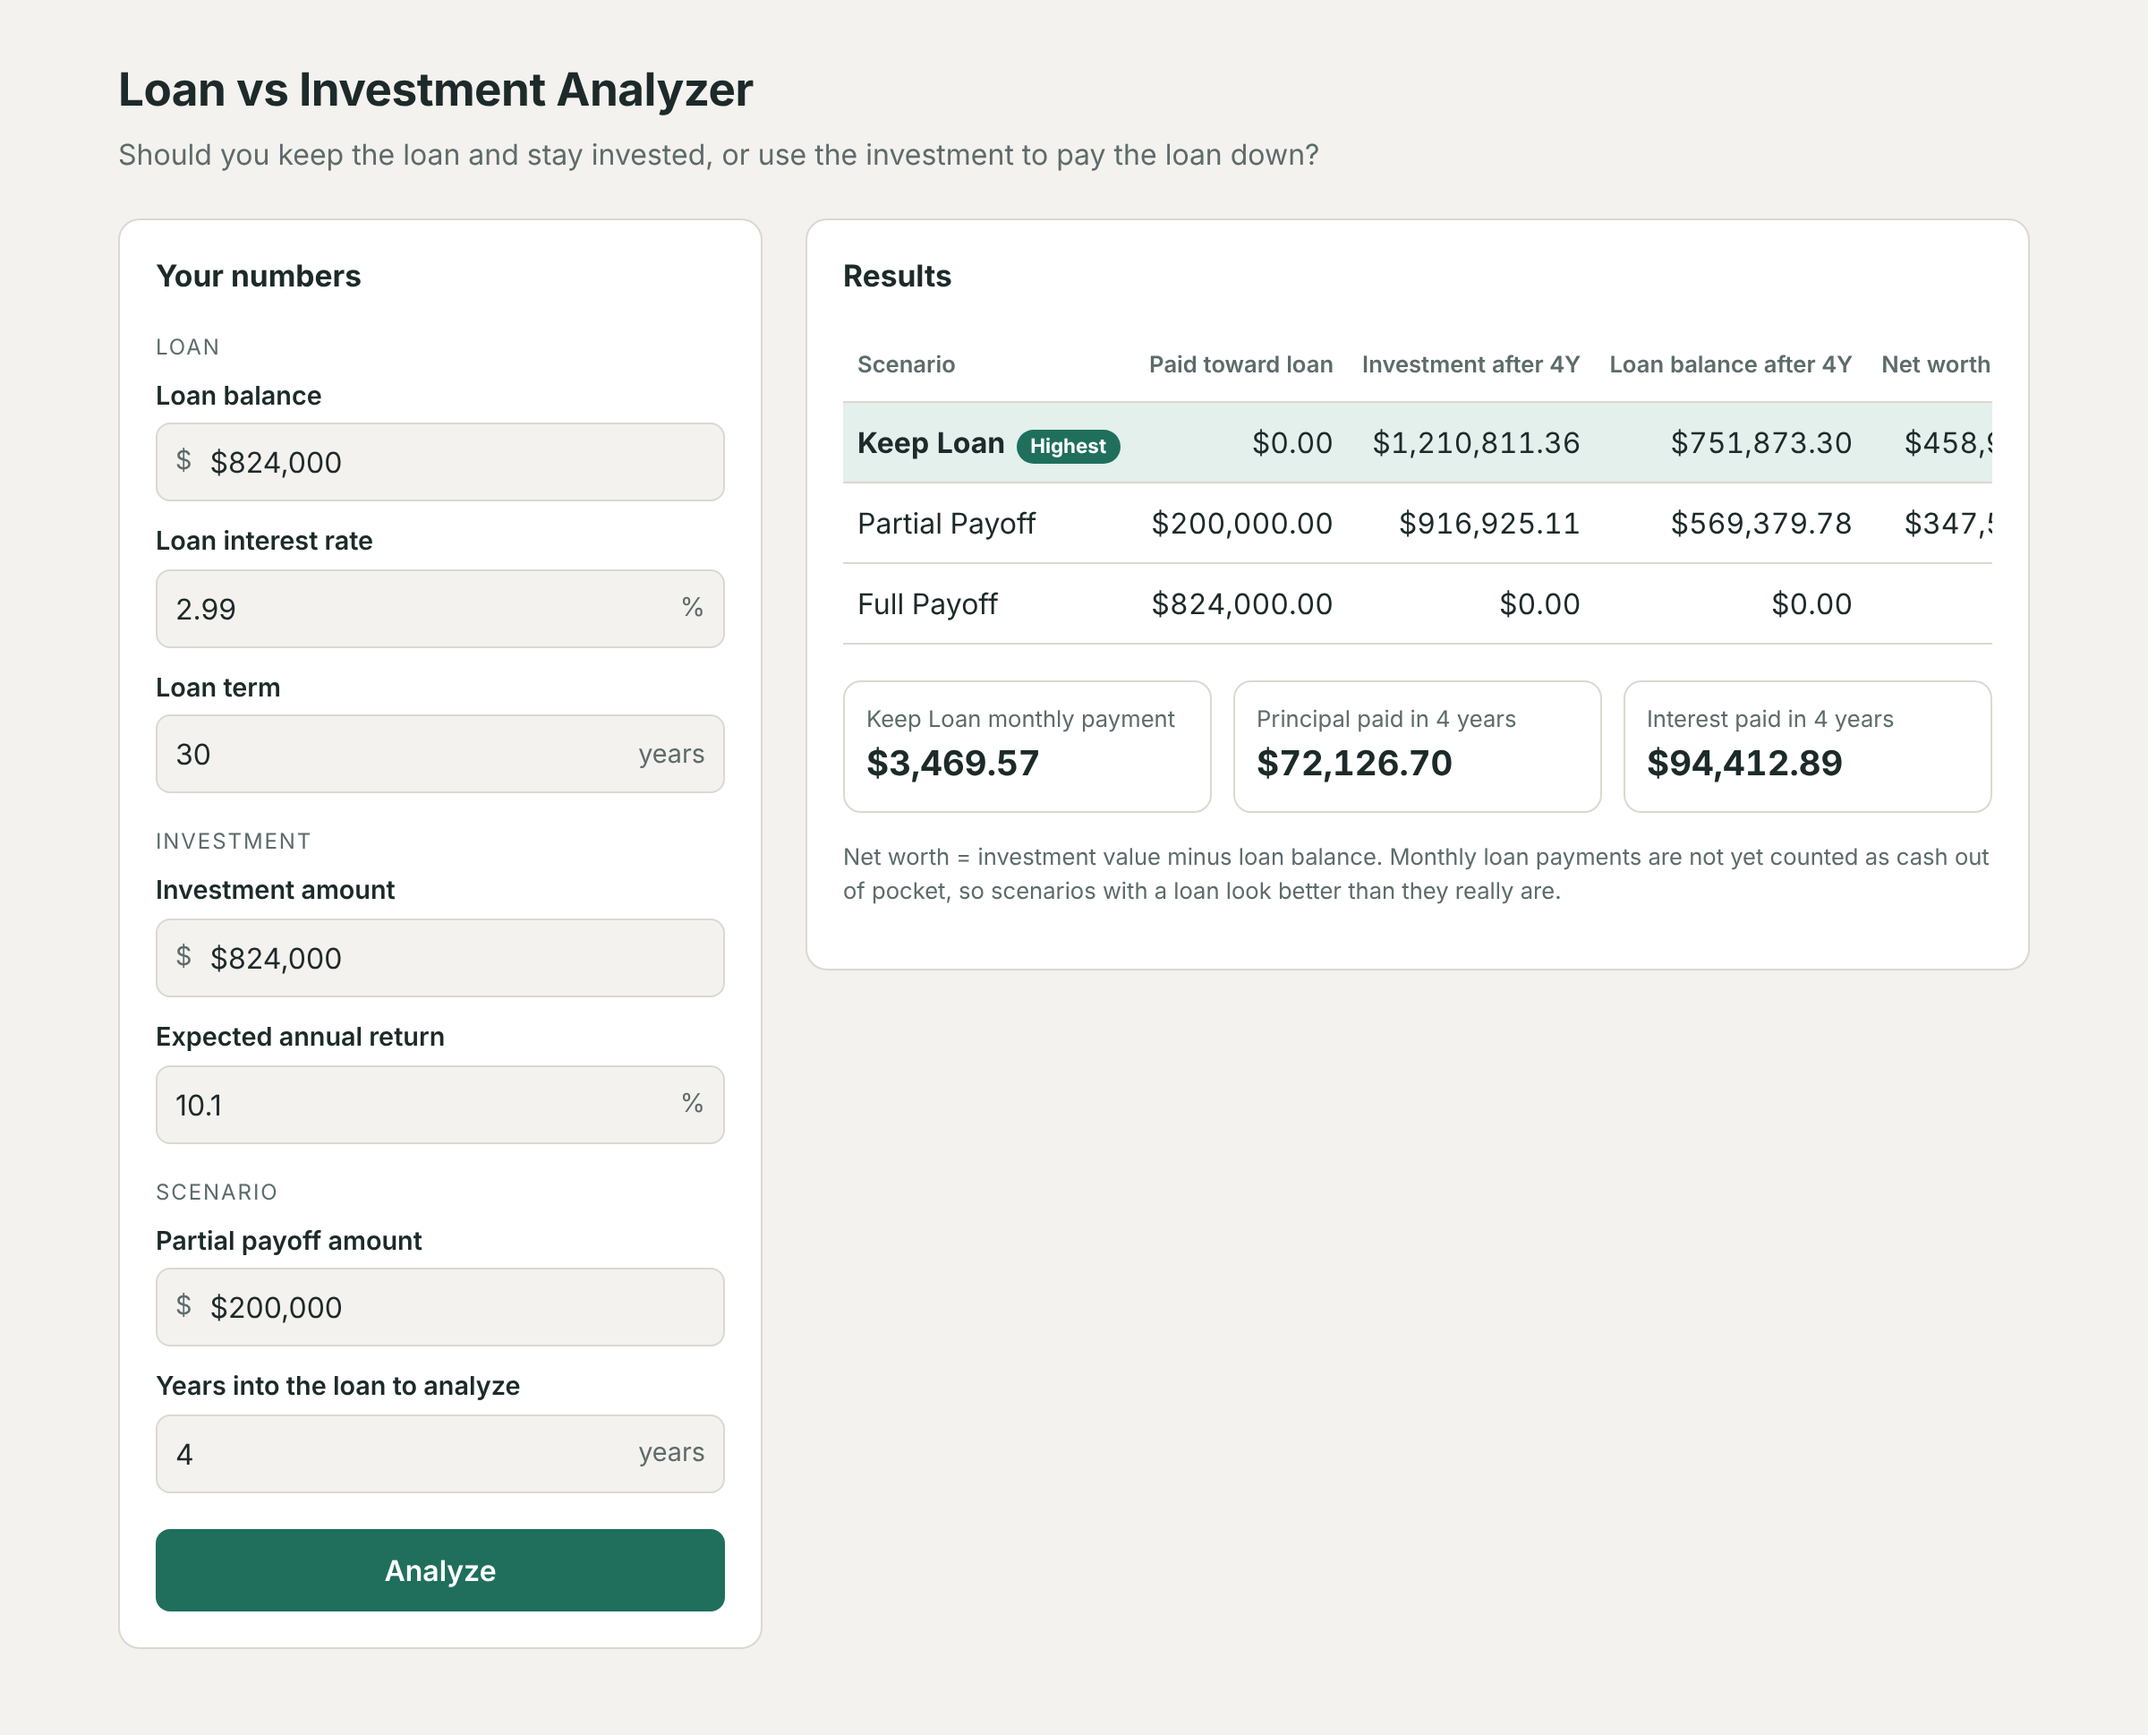
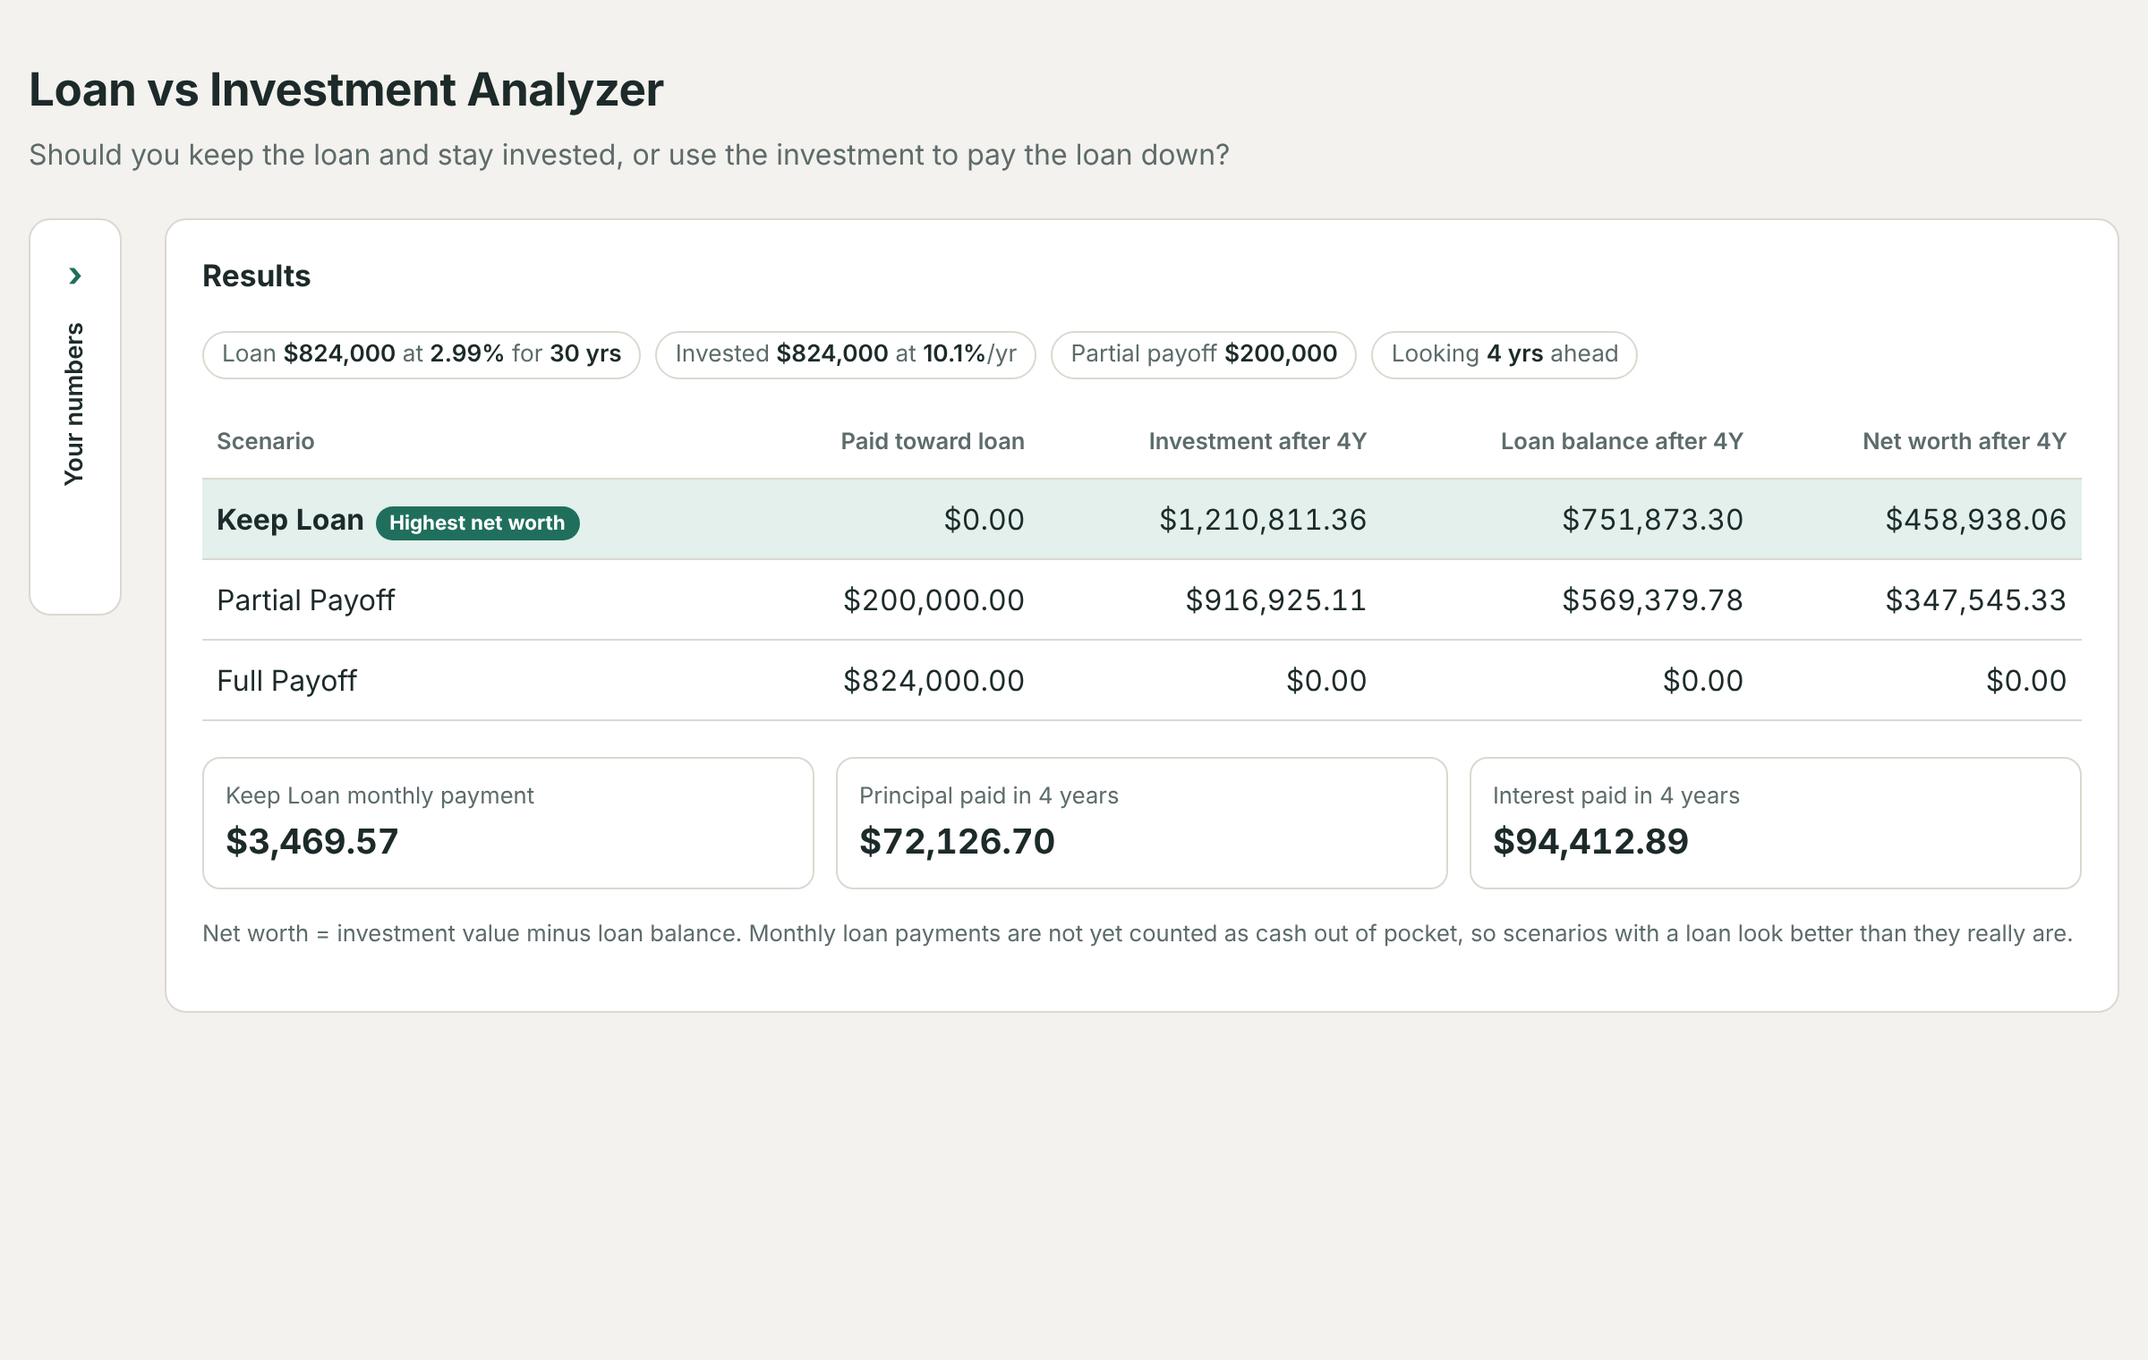
Collapsible "Your numbers" panel so results can use the full page
- After a successful Analyze the form collapses to a thin rail;
  click the rail (or "Hide") to toggle it. Stays open on errors.
- Collapsed rail becomes a top bar on phones
- Input summary chips above the results table
- Badge renamed "Highest net worth" (it is a label, not advice)
- Page max width 1100px -> 1400px

Claude-Session: https://claude.ai/code/session_01ArEsN3HnvLazNN74TwbFKi

diff --git a/src/templates/index.html b/src/templates/index.html
@@ -22,15 +22,46 @@
       margin: 0; background: var(--bg); color: var(--text);
       font: 16px/1.5 system-ui, -apple-system, "Segoe UI", Roboto, sans-serif;
     }
-    .wrap { max-width: 1100px; margin: 0 auto; padding: 32px 16px 48px; }
+    .wrap { max-width: 1400px; margin: 0 auto; padding: 32px 16px 48px; }
     header h1 { margin: 0; font-size: 1.6rem; letter-spacing: -0.01em; }
     header p { margin: 4px 0 24px; color: var(--muted); }
-    .layout { display: grid; grid-template-columns: 360px 1fr; gap: 24px; align-items: start; }
-    @media (max-width: 860px) { .layout { grid-template-columns: 1fr; } }
+    .layout { display: grid; grid-template-columns: 360px 1fr; gap: 24px; align-items: start;
+              transition: grid-template-columns .25s ease; }
+    /* Collapsed: the form shrinks to a thin rail so the results get the whole page */
+    .layout.collapsed { grid-template-columns: 52px 1fr; }
+    @media (max-width: 860px) { .layout, .layout.collapsed { grid-template-columns: 1fr; } }
     /* Let grid columns shrink so a wide table scrolls inside its card instead of overflowing */
     .layout > * { min-width: 0; }
     .card { background: var(--card); border: 1px solid var(--line); border-radius: 12px; padding: 20px; }
     .card h2 { margin: 0 0 16px; font-size: 1.05rem; }
+    .card-head { display: flex; align-items: center; justify-content: space-between; margin-bottom: 16px; }
+    .card-head h2 { margin: 0; }
+    .link-btn { background: none; border: 0; color: var(--accent); font: inherit; font-size: .9rem;
+                font-weight: 600; cursor: pointer; padding: 4px 6px; border-radius: 6px; width: auto; margin: 0; }
+    .link-btn:hover { background: var(--accent-soft); filter: none; }
+
+    /* The rail is only shown when collapsed */
+    .panel { padding: 0; }
+    .panel form { padding: 20px; }
+    .rail { display: none; width: 100%; margin: 0; background: none; border: 0; color: var(--text);
+            cursor: pointer; font: inherit; border-radius: 12px; }
+    .rail:hover { background: var(--accent-soft); filter: none; }
+    .rail .arrow { color: var(--accent); font-size: 1.2rem; font-weight: 700; }
+    .rail .label { font-size: .85rem; font-weight: 600; }
+    .layout.collapsed .panel form { display: none; }
+    .layout.collapsed .rail { display: flex; flex-direction: column; align-items: center; gap: 12px;
+                              padding: 16px 0; min-height: 220px; }
+    .layout.collapsed .rail .label { writing-mode: vertical-rl; transform: rotate(180deg); }
+    @media (max-width: 860px) {
+      .layout.collapsed .rail { flex-direction: row; justify-content: flex-start; min-height: 0; padding: 14px 20px; }
+      .layout.collapsed .rail .label { writing-mode: horizontal-tb; transform: none; }
+    }
+
+    /* One-line reminder of the inputs above the results */
+    .inputs-summary { display: flex; flex-wrap: wrap; gap: 8px; margin-bottom: 16px; }
+    .chip { border: 1px solid var(--line); border-radius: 999px; padding: 3px 10px; font-size: .82rem;
+            color: var(--muted); }
+    .chip b { color: var(--text); font-weight: 600; }
     .group-title { font-size: .75rem; text-transform: uppercase; letter-spacing: .08em;
                    color: var(--muted); margin: 18px 0 8px; }
     .group-title:first-of-type { margin-top: 0; }
@@ -82,10 +113,21 @@
     <p>Should you keep the loan and stay invested, or use the investment to pay the loan down?</p>
   </header>
 
-  <div class="layout">
-    <!-- Left: the form. It posts back to the same page ("/"). -->
-    <form class="card" method="post" action="/" novalidate>
-      <h2>Your numbers</h2>
+  {#- Start collapsed when there are results to show; stay open on first visit or when there are errors -#}
+  <div id="layout" class="layout {{ 'collapsed' if result }}">
+    <!-- Left: the form panel. It posts back to the same page ("/"). -->
+    <aside class="card panel">
+      <!-- Shown only when collapsed: click to expand the form again -->
+      <button type="button" class="rail" data-toggle aria-label="Show your numbers">
+        <span class="arrow">›</span>
+        <span class="label">Your numbers</span>
+      </button>
+
+    <form method="post" action="/" novalidate>
+      <div class="card-head">
+        <h2>Your numbers</h2>
+        {% if result %}<button type="button" class="link-btn" data-toggle aria-label="Hide your numbers">‹ Hide</button>{% endif %}
+      </div>
       {% if errors %}<div class="alert">Please fix the highlighted fields.</div>{% endif %}
 
       {% for f in fields %}
@@ -105,11 +147,19 @@
       {% endfor %}
       <button type="submit">Analyze</button>
     </form>
+    </aside>
 
     <!-- Right: results (only after a valid submit) -->
     <section class="card">
       <h2>Results</h2>
       {% if result %}
+        {%- set v = values %}
+        <div class="inputs-summary">
+          <span class="chip">Loan <b>${{ '{:,.0f}'.format(v.loan_balance) }}</b> at <b>{{ '{:g}'.format(v.interest_rate * 100) }}%</b> for <b>{{ v.loan_years }} yrs</b></span>
+          <span class="chip">Invested <b>${{ '{:,.0f}'.format(v.investment_balance) }}</b> at <b>{{ '{:g}'.format(v.investment_return * 100) }}%</b>/yr</span>
+          <span class="chip">Partial payoff <b>${{ '{:,.0f}'.format(v.partial_payoff) }}</b></span>
+          <span class="chip">Looking <b>{{ v.scenario_years }} yrs</b> ahead</span>
+        </div>
         {% if result.note %}<div class="note">{{ result.note }}</div>{% endif %}
         <div class="table-scroll">
           <table>
@@ -125,7 +175,7 @@
             <tbody>
               {% for r in result.rows %}
               <tr class="{{ 'best' if r.name == result.best }}">
-                <td>{{ r.name }}{% if r.name == result.best %}<span class="badge">Highest</span>{% endif %}</td>
+                <td>{{ r.name }}{% if r.name == result.best %}<span class="badge">Highest net worth</span>{% endif %}</td>
                 <td>{{ money(r.payoff) }}</td>
                 <td>{{ money(r.investment) }}</td>
                 <td>{{ money(r.loan) }}</td>
@@ -151,5 +201,18 @@
     </section>
   </div>
 </div>
+<script>
+  // Collapse / expand the "Your numbers" panel. Every button marked data-toggle flips it.
+  const layout = document.getElementById("layout");
+  document.querySelectorAll("[data-toggle]").forEach(function (btn) {
+    btn.addEventListener("click", function () {
+      layout.classList.toggle("collapsed");
+      // When the form opens, put the cursor in the first field
+      if (!layout.classList.contains("collapsed")) {
+        document.getElementById("loan_balance").focus();
+      }
+    });
+  });
+</script>
 </body>
 </html>

diff --git a/src/app.py b/src/app.py
@@ -105,4 +105,5 @@ async def submit_form(request: Request):
     values, errors = validate(form)
     result = None if errors else analyze(values)
     return templates.TemplateResponse(request, "index.html",
-                                      {"fields": FIELDS, "form": form, "errors": errors, "result": result})
+                                      {"fields": FIELDS, "form": form, "errors": errors, "result": result,
+                                       "values": values})
